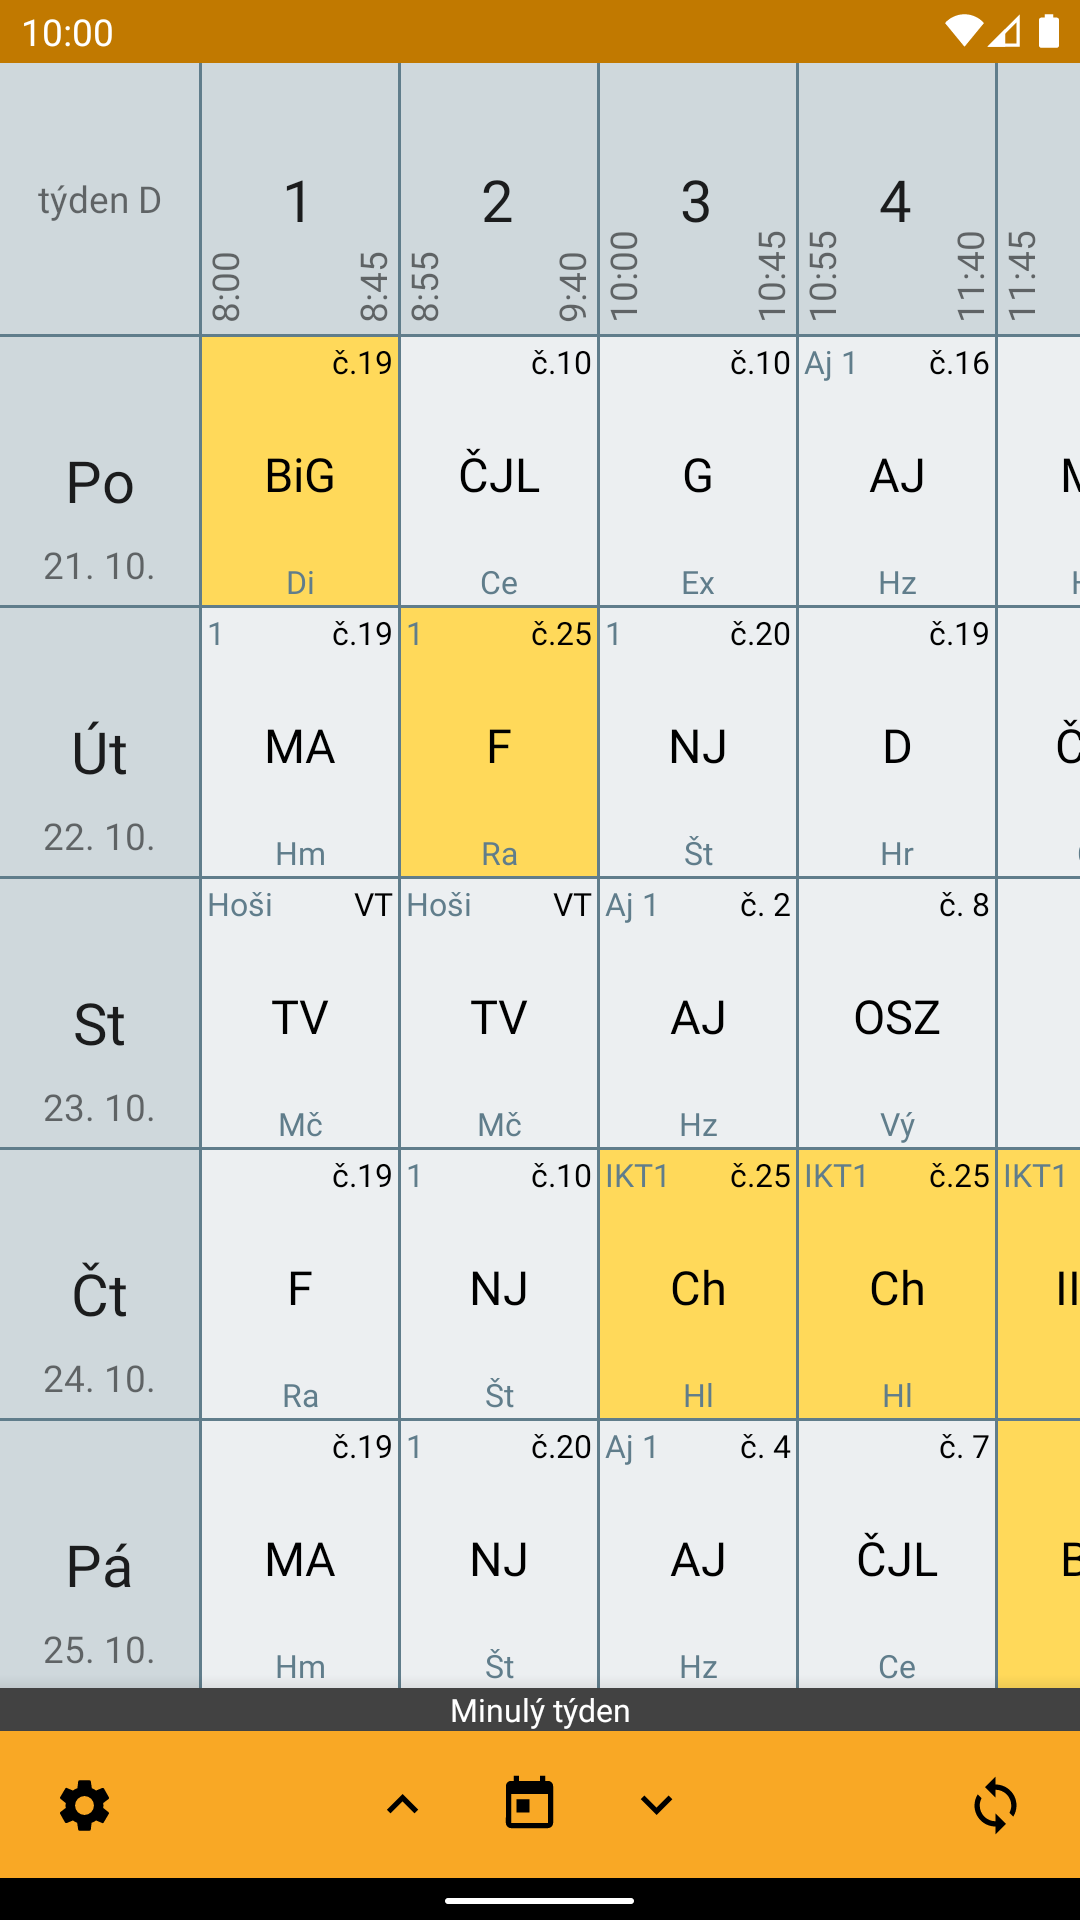
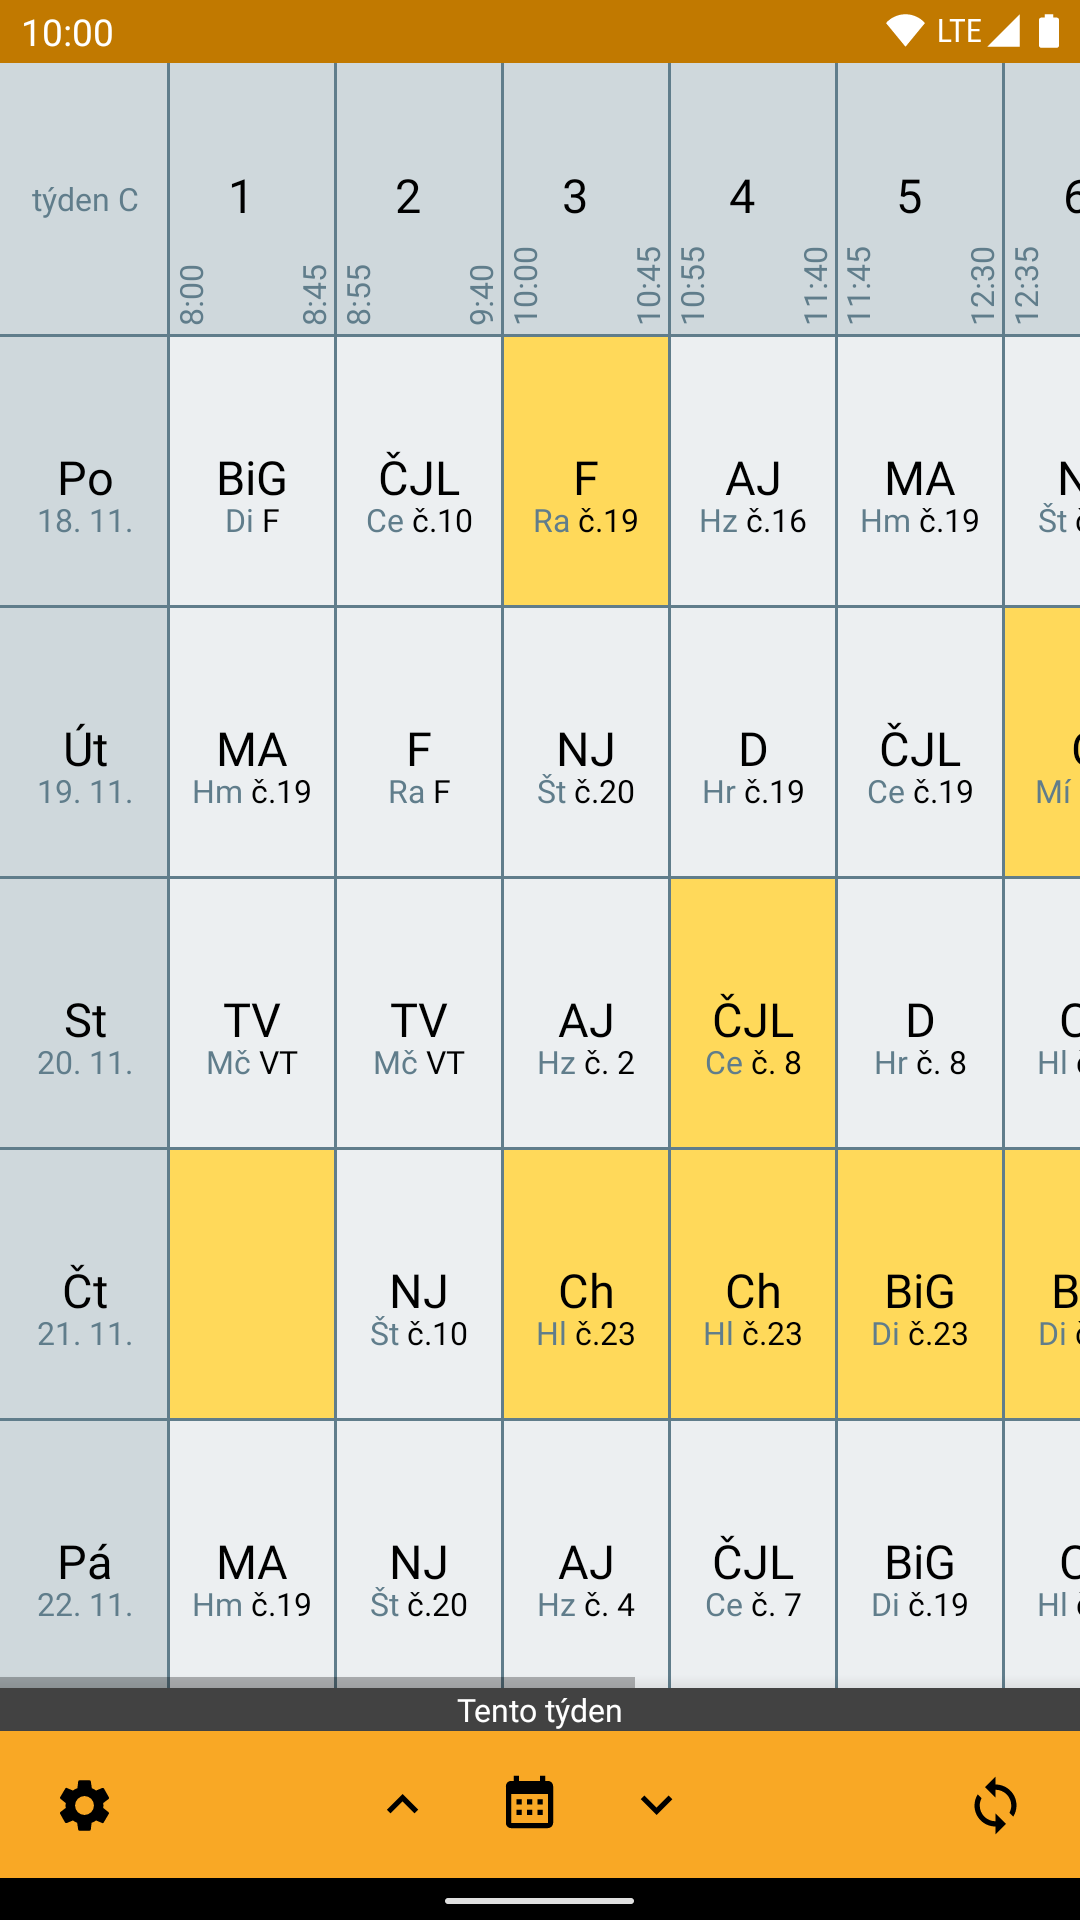
Updated screenshots, added changelogs and incremented version number.

diff --git a/CHANGELOG.md b/CHANGELOG.md
@@ -1,6 +1,26 @@
 # Seznam změn / Changelog
 
-### 1.4 (9.12. 2019)
+## 1.5 (31. 12. 2019)
+
+Verze 1.5 přináší několik nových funkcí a také hromadu vylepšení a oprav, zvláště pro učitele a uživatele tabletů.
+
+- Učitelům se v rozvrhu místo jejich vlastního jména zobrazuje název třídy.
+- Do trvalého upozornění byly přidány tlačítka na rychlé listování mezi hodinami.
+- Výrazně zlepšeno vykreslování rozvrhu, zvláště na tabletech či velmi malých obrazovkách. Už žádné překrývající se nápisy či bílé pruhy napravo od rozvrhu.
+- Upraveno rozložení nápisů, aby byl rozvrh přehlednější.
+- A několik dalších drobných vylepšení či oprav...
+
+---
+
+Version 1.5 brings several new features and plenty of tweaks and fixes, especially for teachers and tablet users.
+
+- Teachers now see the class name instead of their own name in the schedule.
+- The permanent notification has buttons to browse through the following or past lessons.
+- Massively improved rendering of the schedule, mainly on tablets and small screens. No more white stripes on the right of the schedule or texts overlapping.
+- Improved cell layout to make the schedule less cluttered.
+- And many small tweaks and bug fixes...
+
+## 1.4 (9. 12. 2019)
 
 - Přidána funkce trvalého upozornění, díky které máte Vaši příští hodinu vždy na očích.
 - Drobné zkrášlení nastavení na starších zařízeních.
@@ -10,7 +30,7 @@
 - Added a persistent notification feature, thanks to which you don't have to open the any more!
 - Slight improvement of the look of settings on older devices.
 
-### 1.3.2 (5. 12. 2019)
+## 1.3.2 (5. 12. 2019)
 
 - Opravena chyba, která způsobovala pád aplikace při zobrazování zvláštních rozvrhů.
 
@@ -18,7 +38,7 @@
 
 - Fixed a bug which caused the app to crash when showing a weird schedule.
 
-### 1.3.1 (3. 12. 2019)
+## 1.3.1 (3. 12. 2019)
 
 - Snížena zátěž na školní server.
 - Zvýšena tolerance (hodně) pomalých severů.
